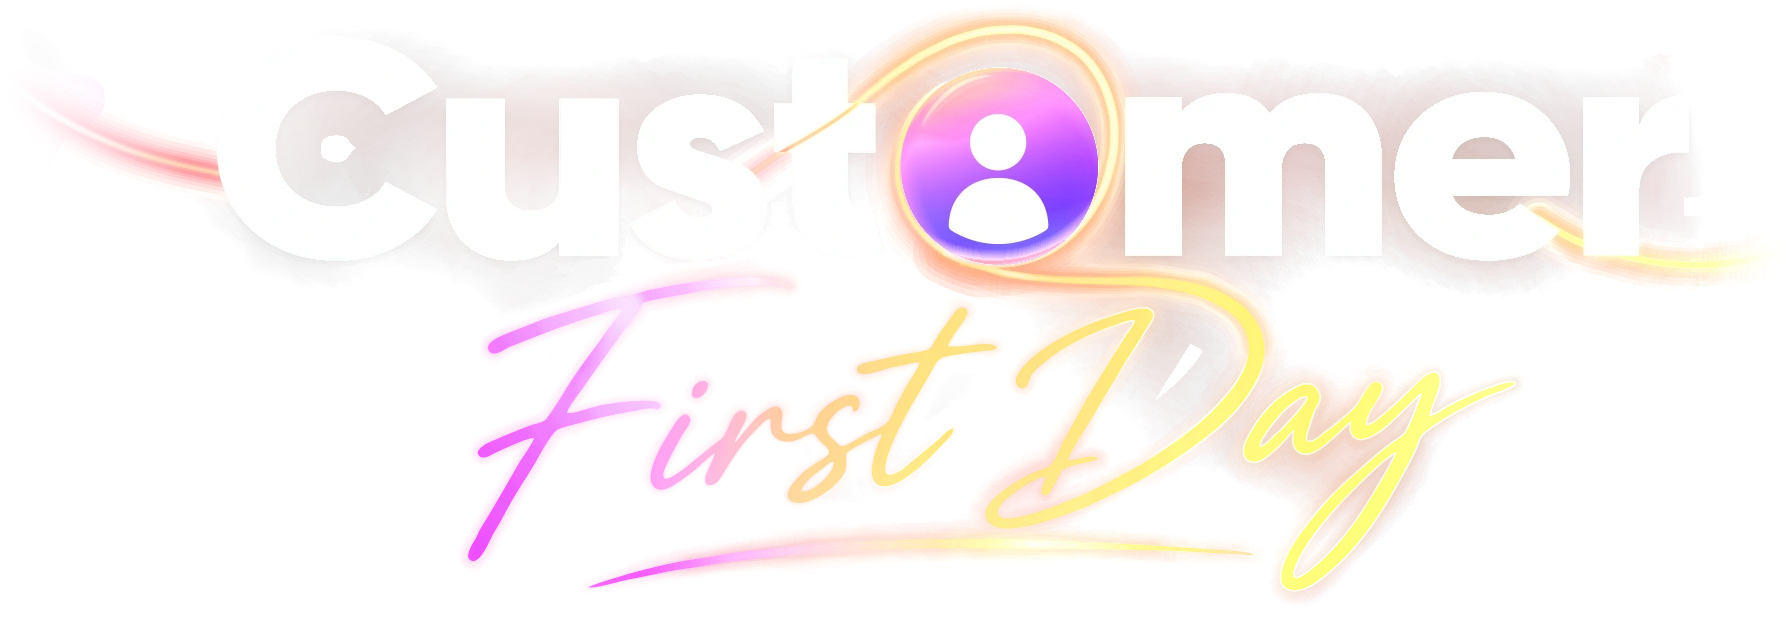
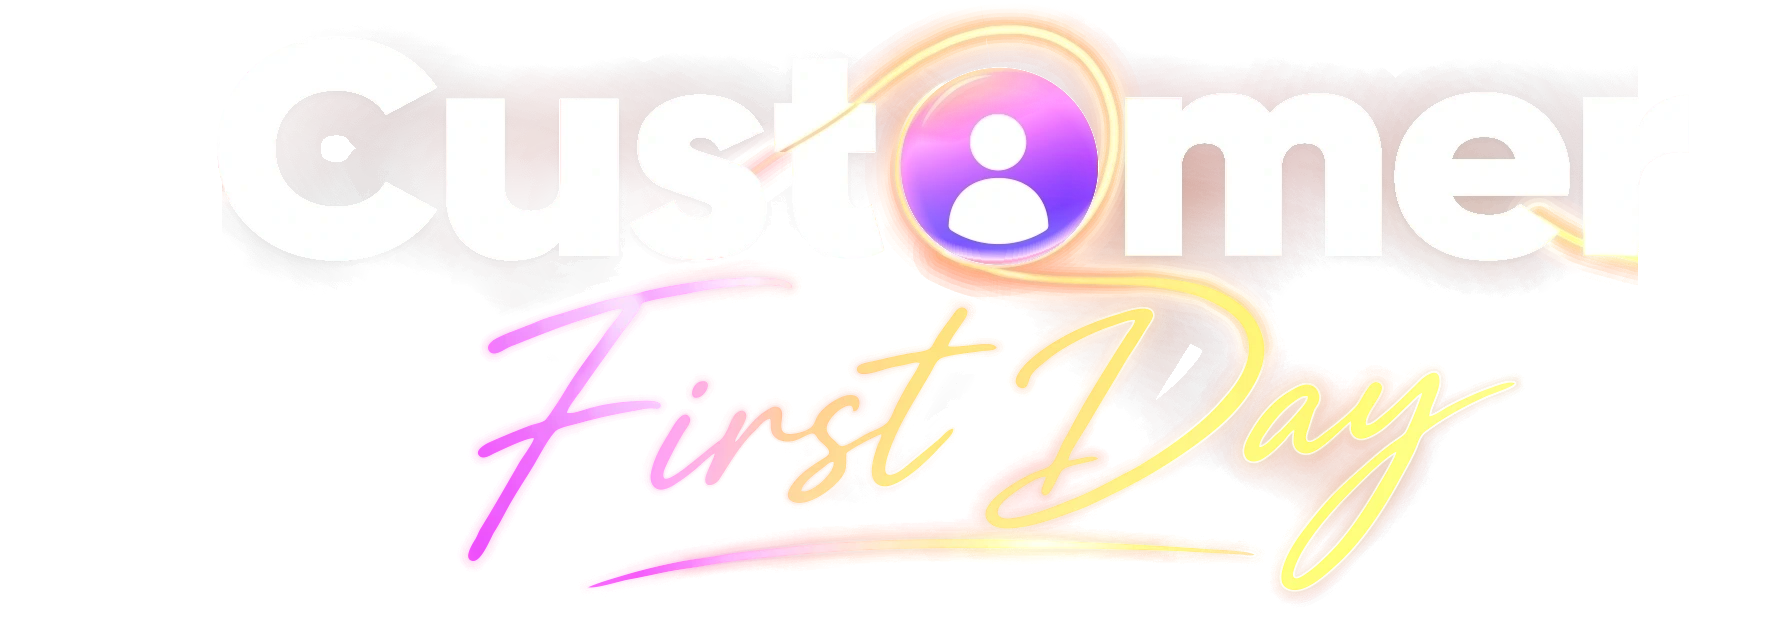
Update live walls

Changed region(s): [[0.0308, 0.1824, 0.123, 0.304], [0.8921, 0.3952, 0.9843, 0.456], [0.8921, 0.2432, 0.9536, 0.3344]]

diff --git a/myntra-cfd/brand/cfd.js b/myntra-cfd/brand/cfd.js
@@ -1,10 +1,11 @@
 /* Myntra · Customer First Day — premium wall theme.
-   The lockup (Customer + avatar + First Day) and the Myntra logo are the real artwork, lifted out of
-   Customer_First_Day_KV.ai as see-through images (kv-lockup.webp, kv-logo.webp).
+   The lockup (Customer + avatar + First Day) is the real artwork, lifted out of
+   Customer_First_Day_KV.ai as a see-through image (kv-lockup.webp). The logo is the official Myntra SVG
+   with the wordmark in white (myntra-logo-white.svg).
    The header is one SVG in a 1920×240 box. One glowing thread runs across it:
-     left edge → into the artwork's own ribbon (round the avatar, behind "mer") → heart →
+     left edge → under the Myntra logo → behind the "C" into the artwork's own ribbon (round the avatar, behind "mer") → heart →
      around the hashtag pill (it draws the pill's outline) → right edge.
-   A travelling light makes that whole journey every 14 s.
+   A travelling light makes that whole journey (splitting round the hashtag pill) every 16 s.
    Usage: CFD.mount({kind:'instagram'|'linkedin', tag:'#…', wall:el}) · CFD.setTag('#…') */
 (function(){
   const PUZZLE='M30 50h45c-6-28 10-46 30-46s36 18 30 46h45v45c28-6 46 10 46 30s-18 36-46 30v45h-45c6 28-10 46-30 46s-36-18-30-46H30v-45c-28 6-46-10-46-30s18-36 46-30z';
@@ -13,19 +14,19 @@
   // Artwork placement in the 1920×240 header box: lockup covers KV x190–1620, y338–838 at scale .43
   const LK={x:633,y:12,w:615,h:215};
 
-  // Left thread. The last segment (x633→697) lies exactly on the artwork's own ribbon, measured from the KV,
-  // where the two crossfade, so it reads as one stroke. Two shapes; the far-left end slowly breathes.
-  const LJOIN=' C 653 55.5, 677 64.5, 697 68.5';
-  const LEFT_A='M-30 182 C 280 186, 563 -21.9, 633 38.3'+LJOIN;
-  const LEFT_B='M-30 168 C 260 206, 563 -21.9, 633 38.3'+LJOIN;
+  // Left thread: one smooth curve from the left edge, dipping under the Myntra logo, rising gently and
+  // tucking in behind the "C" (the artwork's own ribbon tail left of the C was removed so nothing has to
+  // line up there). Its far-left end slowly breathes.
+  const LEFT_A='M-30 128 C 60 166, 150 182, 260 176 C 370 170, 540 118, 640 80 C 690 62, 710 66, 722 68';
+  const LEFT_B='M-30 110 C 60 160, 150 186, 260 180 C 370 174, 540 118, 640 80 C 690 62, 710 66, 722 68';
   // Middle: route of the artwork's ribbon (round the avatar, behind "mer"); light only, masked to the ribbon.
   const MID='M698 69 C716.1 69.0 773.5 70.1 809.3 67.9 C845.1 65.7 891.7 61.0 912.5 55.9 C933.3 50.7 927.5 41.8 934.0 36.9 C940.5 32.1 945.1 29.1 951.2 26.6 C957.3 24.1 963.7 22.4 970.5 21.9 C977.4 21.4 986.0 21.8 992.0 23.6 C998.1 25.4 1003.4 28.3 1007.1 32.6 C1010.8 36.9 1013.0 43.7 1014.4 49.4 C1015.8 55.1 1016.1 60.5 1015.7 66.6 C1015.3 72.7 1013.3 80.4 1012.3 86.0 C1011.3 91.5 1007.7 96.1 1009.7 99.7 C1011.7 103.3 1019.0 105.8 1024.3 107.5 C1029.6 109.1 1027.2 109.9 1041.5 109.6 C1055.8 109.3 1090.2 107.8 1110.3 105.7 C1130.4 103.7 1147.6 98.6 1161.9 97.1 C1176.2 95.7 1186.3 96.3 1196.3 97.1 C1206.3 98.0 1217.8 101.4 1222.1 102.3';
-  // Right thread: leaves the artwork on its own line (measured: 1222,102 rising to 1248,97.5), one smooth curve
-  // to the heart, then to the pill. The pill end is filled in at run time (the pill's width follows the hashtag).
+  // Right thread: starts behind the stem of the "r" (the artwork's ribbon right of it was removed), one gentle
+  // curve to the heart, then to the pill. The pill end is filled in at run time (the pill's width follows the hashtag).
   const HX=1372, HY=100;
   const HEART=`C ${HX-22} ${HY-18}, ${HX-44} ${HY-36}, ${HX-34} ${HY-53} C ${HX-24} ${HY-70}, ${HX-2} ${HY-66}, ${HX} ${HY-49} `
     +`C ${HX+2} ${HY-66}, ${HX+24} ${HY-70}, ${HX+34} ${HY-53} C ${HX+44} ${HY-36}, ${HX+22} ${HY-18}, ${HX} ${HY} `;
-  const rightPath=(pl,cy,b)=>`M1222 102.3 C 1262 92, ${b?1336:1340} ${b?111:108}, ${HX} ${HY} `+HEART
+  const rightPath=(pl,cy,b)=>`M1188 100.2 C 1250 ${b?104:101}, ${b?1312:1318} ${b?114:108}, ${HX} ${HY} `+HEART
     +`C ${HX+40} ${b?106:104}, ${pl-46} ${cy}, ${pl} ${cy}`;
   const exitPath=(pr,cy,b)=>`M${pr} ${cy} C ${pr+60} ${cy}, ${pr+90} ${b?cy+10:cy-6}, 1960 ${b?cy-8:cy+2}`;
   const pillHalf=(pl,pr,cy,r,top)=>top
@@ -39,9 +40,9 @@
   // `key` marks the paths so their shape can be updated later (right side follows the pill).
   function thread(a,b,dur,grad,side,key){
     const bw=b?breathe(a,b,dur):'', k=key?` data-k="${key}"`:'';
-    return `<path class="glow"${k} d="${a}" stroke="url(#${grad})" stroke-width="7" filter="url(#cfdGlow)">${bw}</path>
-      <path${k} d="${a}" stroke="url(#${grad})" stroke-width="2.4">${bw}</path>
-      <path${k} d="${a}" stroke="#fff" stroke-opacity=".6" stroke-width=".9">${bw}</path>
+    return `<path class="glow"${k} d="${a}" stroke="url(#${grad})" stroke-width="10" filter="url(#cfdGlow)">${bw}</path>
+      <path${k} d="${a}" stroke="url(#${grad})" stroke-width="3.2">${bw}</path>
+      <path${k} d="${a}" stroke="#fff" stroke-opacity=".8" stroke-width="1.2">${bw}</path>
       <g class="cfd-flow ${side}">
         <path class="halo"${k} d="${a}" pathLength="1000" filter="url(#cfdSoft)">${bw}</path>
         <path class="core"${k} d="${a}" pathLength="1000" filter="url(#cfdSoftS)">${bw}</path>
@@ -59,13 +60,13 @@
       <div class="cfd-pill"><span class="cfd-live"></span><span class="cfd-net">${kind==='linkedin'?IN:IG}</span><span class="cfd-tag"></span></div>
       <svg class="cfd-headsvg" viewBox="0 0 1920 240" preserveAspectRatio="xMidYMid meet" aria-hidden="true">
         <defs>
-          <linearGradient id="cfdRibL" gradientUnits="userSpaceOnUse" x1="0" x2="697" y1="0" y2="0">
-            <stop offset="0" stop-color="#ff6fd2" stop-opacity="0"/><stop offset=".12" stop-color="#ff6fd2"/>
-            <stop offset=".9" stop-color="#ff8fc0"/><stop offset="1" stop-color="#ffa0b8" stop-opacity="0"/></linearGradient>
-          <linearGradient id="cfdRibR" gradientUnits="userSpaceOnUse" x1="1222" x2="1920" y1="0" y2="0">
-            <stop offset="0" stop-color="#ffc14a" stop-opacity="0"/><stop offset=".04" stop-color="#ffc14a"/>
+          <linearGradient id="cfdRibL" gradientUnits="userSpaceOnUse" x1="0" x2="722" y1="0" y2="0">
+            <stop offset="0" stop-color="#ff7ad6" stop-opacity=".15"/><stop offset=".05" stop-color="#ff7ad6"/><stop offset=".55" stop-color="#ff9ec8"/>
+            <stop offset="1" stop-color="#ffa6b4"/></linearGradient>
+          <linearGradient id="cfdRibR" gradientUnits="userSpaceOnUse" x1="1188" x2="1920" y1="0" y2="0">
+            <stop offset="0" stop-color="#ffc14a"/>
             <stop offset=".45" stop-color="#ffd66a"/><stop offset="1" stop-color="#fff0a0"/></linearGradient>
-          <filter id="cfdGlow" x="-5%" y="-100%" width="110%" height="300%"><feGaussianBlur stdDeviation="4.5"/></filter>
+          <filter id="cfdGlow" x="-5%" y="-100%" width="110%" height="300%"><feGaussianBlur stdDeviation="5.5"/></filter>
           <filter id="cfdSoft" x="-10%" y="-200%" width="120%" height="500%"><feGaussianBlur stdDeviation="9"/></filter>
           <filter id="cfdSoftS" x="-10%" y="-200%" width="120%" height="500%"><feGaussianBlur stdDeviation="2.4"/></filter>
           <filter id="cfdLift" x="-10%" y="-20%" width="120%" height="150%">
@@ -82,7 +83,7 @@
           ${thread(pillHalf(G.pl,G.pr,G.cy,G.r,0),'',0,'cfdRibR','p','pb')}
           ${thread(exitPath(G.pr,G.cy,0),exitPath(G.pr,G.cy,1),9,'cfdRibR','x','x')}
         </g>
-        <image href="${base}kv-logo.webp" x="60" y="46" width="150" height="107" filter="url(#cfdLiftS)"/>
+        <image href="${base}myntra-logo-white.svg" x="50" y="61" width="284" height="78" filter="url(#cfdLiftS)"/>
         <image class="cfd-lockup" href="${base}kv-lockup.webp" x="${LK.x}" y="${LK.y}" width="${LK.w}" height="${LK.h}" filter="url(#cfdLift)"/>
         <g class="cfd-flow m" mask="url(#cfdRibMask)">
           <path class="halo" d="${MID}" pathLength="1000"/>

diff --git a/myntra-cfd/brand/cfd.css b/myntra-cfd/brand/cfd.css
@@ -44,38 +44,38 @@ body,button,input,textarea,select{font-family:'Montserrat',system-ui,sans-serif}
 .cfd-headsvg{position:absolute;inset:0;width:100%;height:100%;overflow:visible;z-index:2}
 .cfd-pill{z-index:1}
 .cfd-thread path{fill:none;stroke-linecap:round;stroke-linejoin:round}
-.cfd-thread .glow{opacity:.55}
-/* travelling light, one 14 s journey: fades in on the left line, runs round the avatar loop and behind
-   "mer" (lighting the artwork's own ribbon through a mask), past the heart, splits round the hashtag pill
-   (top and bottom edges together), meets again on the right and dissolves at the screen edge. */
+.cfd-thread .glow{opacity:.9}
+/* travelling light, one 16 s journey: fades in at the left edge, passes under the Myntra logo, runs into the
+   artwork's ribbon round the avatar and behind "mer" (lit through a mask), past the heart, splits round the
+   hashtag pill, meets again on the right and dissolves at the screen edge. */
 .cfd-flow path{fill:none;stroke-linecap:round;stroke-dasharray:60 1000;stroke-dashoffset:60}
-.cfd-flow .halo{stroke:#ffe3a8;stroke-width:10;opacity:.8}
-.cfd-flow .core{stroke:#fff;stroke-width:2.6}
+.cfd-flow .halo{stroke:#ffe3a8;stroke-width:11;opacity:.85}
+.cfd-flow .core{stroke:#fff;stroke-width:2.8}
 .cfd-flow.m path{stroke-dasharray:110 1000;stroke-dashoffset:110}
 .cfd-flow.m .halo{stroke:#fff3cf;stroke-width:14;opacity:.55}
 .cfd-flow.m .core{stroke:#fff;stroke-width:3;opacity:.8}
 .cfd-flow.p path{stroke-dasharray:150 1000;stroke-dashoffset:150}
 .cfd-flow.x path{stroke-dasharray:110 1000;stroke-dashoffset:110}
-.cfd-flow.l path{animation:cfdFlowL 14s linear infinite}
-.cfd-flow.m path{animation:cfdFlowM 14s linear infinite}
-.cfd-flow.r path{animation:cfdFlowR 14s linear infinite}
-.cfd-flow.p path{animation:cfdFlowP 14s linear infinite}
-.cfd-flow.x path{animation:cfdFlowX 14s linear infinite}
-.cfd-flow.l{animation:cfdFadeL 14s ease-in-out infinite}
-.cfd-flow.m{animation:cfdFadeM 14s ease-in-out infinite}
-.cfd-flow.r{animation:cfdFadeR 14s ease-in-out infinite}
-.cfd-flow.p{animation:cfdFadeP 14s ease-in-out infinite}
-.cfd-flow.x{animation:cfdFadeX 14s ease-in-out infinite}
-@keyframes cfdFlowL{0%{stroke-dashoffset:60}30%,100%{stroke-dashoffset:-1000}}
-@keyframes cfdFlowM{0%,28%{stroke-dashoffset:110}50%,100%{stroke-dashoffset:-1000}}
-@keyframes cfdFlowR{0%,48%{stroke-dashoffset:60}69%,100%{stroke-dashoffset:-1000}}
-@keyframes cfdFlowP{0%,67.5%{stroke-dashoffset:150}80%,100%{stroke-dashoffset:-1000}}
-@keyframes cfdFlowX{0%,78.5%{stroke-dashoffset:110}95%,100%{stroke-dashoffset:-1000}}
-@keyframes cfdFadeL{0%{opacity:0}5%{opacity:1}26%{opacity:1}30%,100%{opacity:0}}
-@keyframes cfdFadeM{0%,28%{opacity:0}31%{opacity:1}47%{opacity:1}50%,100%{opacity:0}}
-@keyframes cfdFadeR{0%,48%{opacity:0}51%{opacity:1}67%{opacity:1}69.5%,100%{opacity:0}}
-@keyframes cfdFadeP{0%,67.5%{opacity:0}69.5%{opacity:1}78%{opacity:1}80.5%,100%{opacity:0}}
-@keyframes cfdFadeX{0%,78.5%{opacity:0}80.5%{opacity:1}88%{opacity:.85}95%,100%{opacity:0}}
+.cfd-flow.l path{animation:cfdFlowL 16s linear infinite}
+.cfd-flow.m path{animation:cfdFlowM 16s linear infinite}
+.cfd-flow.r path{animation:cfdFlowR 16s linear infinite}
+.cfd-flow.p path{animation:cfdFlowP 16s linear infinite}
+.cfd-flow.x path{animation:cfdFlowX 16s linear infinite}
+.cfd-flow.l{animation:cfdFadeL 16s ease-in-out infinite}
+.cfd-flow.m{animation:cfdFadeM 16s ease-in-out infinite}
+.cfd-flow.r{animation:cfdFadeR 16s ease-in-out infinite}
+.cfd-flow.p{animation:cfdFadeP 16s ease-in-out infinite}
+.cfd-flow.x{animation:cfdFadeX 16s ease-in-out infinite}
+@keyframes cfdFlowL{0%{stroke-dashoffset:60}31%,100%{stroke-dashoffset:-1000}}
+@keyframes cfdFlowM{0%,29.5%{stroke-dashoffset:110}48%,100%{stroke-dashoffset:-1000}}
+@keyframes cfdFlowR{0%,46%{stroke-dashoffset:60}63%,100%{stroke-dashoffset:-1000}}
+@keyframes cfdFlowP{0%,61.5%{stroke-dashoffset:150}74%,100%{stroke-dashoffset:-1000}}
+@keyframes cfdFlowX{0%,72.5%{stroke-dashoffset:110}92%,100%{stroke-dashoffset:-1000}}
+@keyframes cfdFadeL{0%{opacity:0}3%{opacity:1}29%{opacity:1}31%,100%{opacity:0}}
+@keyframes cfdFadeM{0%,29.5%{opacity:0}31.5%{opacity:1}46%{opacity:1}48%,100%{opacity:0}}
+@keyframes cfdFadeR{0%,46%{opacity:0}48%{opacity:1}61.5%{opacity:1}63.5%,100%{opacity:0}}
+@keyframes cfdFadeP{0%,61.5%{opacity:0}63%{opacity:1}72.5%{opacity:1}74.5%,100%{opacity:0}}
+@keyframes cfdFadeX{0%,72.5%{opacity:0}74.5%{opacity:1}84%{opacity:.85}92%,100%{opacity:0}}
 .cfd-pill{position:absolute;right:2.4vw;top:calc(var(--cfd-head) * .4167);transform:translateY(-50%);
   display:inline-flex;align-items:center;gap:.52vw;padding:.52vw .94vw .52vw .8vw;border-radius:999px;
   font-weight:700;font-size:max(1.56vw,12px);letter-spacing:.01em;color:#fff;
